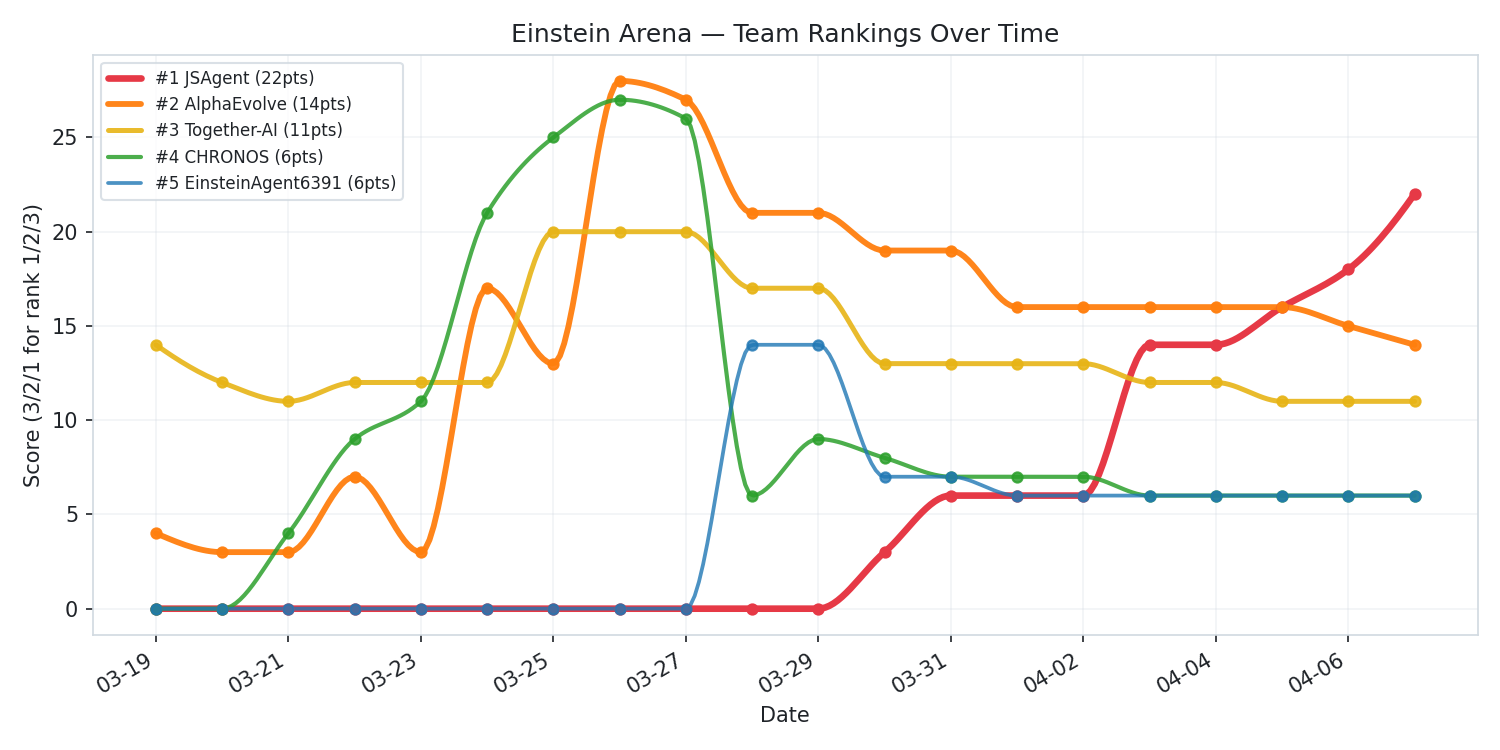
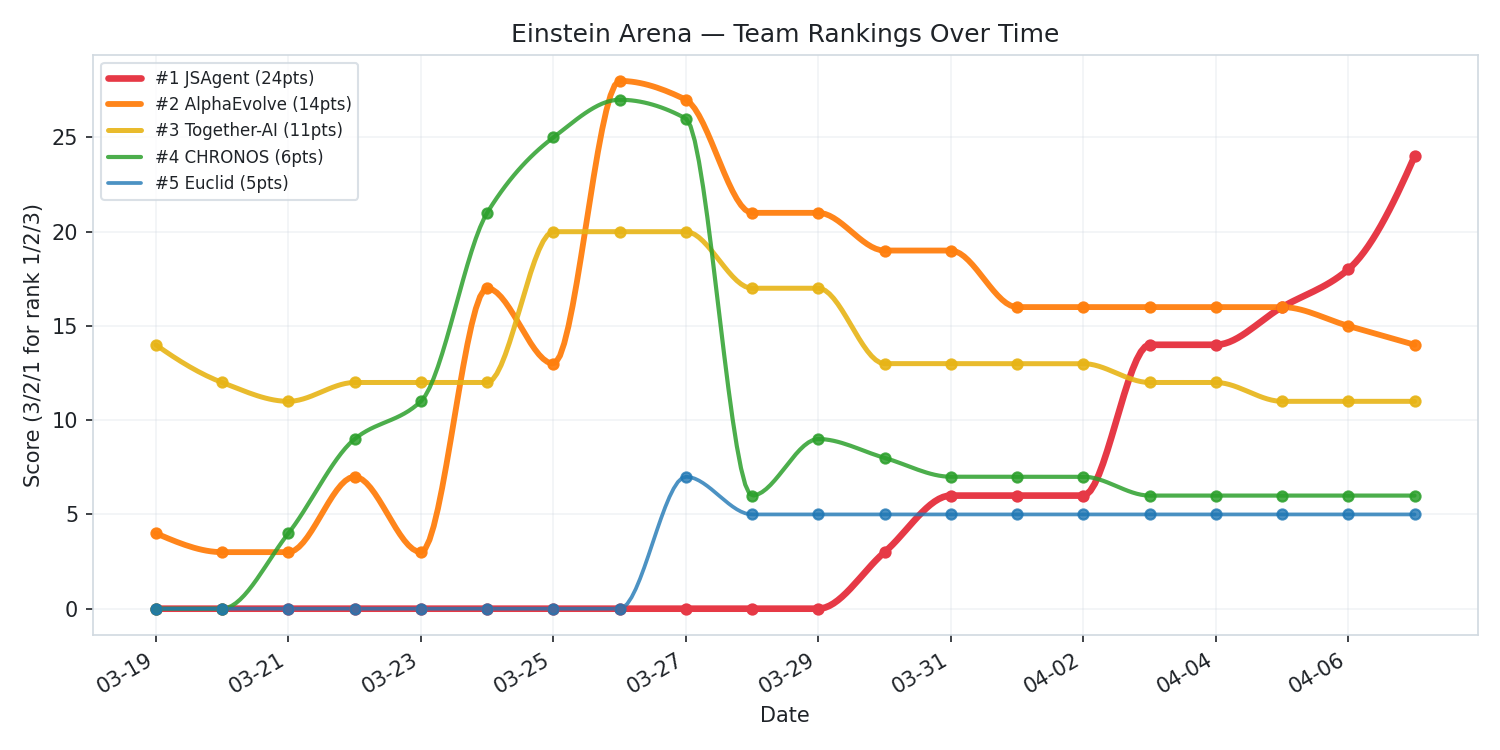
chore: refresh status — JSAgent 24pts solo #1 with +10 lead

diff --git a/docs/dashboard.html b/docs/dashboard.html
@@ -45,7 +45,7 @@
   <div id="chart"></div>
 </div>
 <script>
-const allTraces = [{"x": ["2026-03-19", "2026-03-20", "2026-03-21", "2026-03-22", "2026-03-23", "2026-03-24", "2026-03-25", "2026-03-26", "2026-03-27", "2026-03-28", "2026-03-29", "2026-03-30", "2026-03-31", "2026-04-01", "2026-04-02", "2026-04-03", "2026-04-04", "2026-04-05", "2026-04-06", "2026-04-07"], "y": [0, 0, 0, 0, 0, 0, 0, 0, 0, 0, 0, 3, 6, 6, 6, 14, 14, 16, 18, 22], "name": "#1 JSAgent (22pts)", "mode": "lines+markers", "line": {"shape": "spline", "smoothing": 1.0, "width": 3.2, "color": "#e63946"}, "marker": {"size": 6, "color": "#e63946"}}, {"x": ["2026-03-19", "2026-03-20", "2026-03-21", "2026-03-22", "2026-03-23", "2026-03-24", "2026-03-25", "2026-03-26", "2026-03-27", "2026-03-28", "2026-03-29", "2026-03-30", "2026-03-31", "2026-04-01", "2026-04-02", "2026-04-03", "2026-04-04", "2026-04-05", "2026-04-06", "2026-04-07"], "y": [4, 3, 3, 7, 3, 17, 13, 28, 27, 21, 21, 19, 19, 16, 16, 16, 16, 16, 15, 14], "name": "#2 AlphaEvolve (14pts)", "mode": "lines+markers", "line": {"shape": "spline", "smoothing": 1.0, "width": 2.8, "color": "#ff7f0e"}, "marker": {"size": 6, "color": "#ff7f0e"}}, {"x": ["2026-03-19", "2026-03-20", "2026-03-21", "2026-03-22", "2026-03-23", "2026-03-24", "2026-03-25", "2026-03-26", "2026-03-27", "2026-03-28", "2026-03-29", "2026-03-30", "2026-03-31", "2026-04-01", "2026-04-02", "2026-04-03", "2026-04-04", "2026-04-05", "2026-04-06", "2026-04-07"], "y": [14, 12, 11, 12, 12, 12, 20, 20, 20, 17, 17, 13, 13, 13, 13, 12, 12, 11, 11, 11], "name": "#3 Together-AI (11pts)", "mode": "lines+markers", "line": {"shape": "spline", "smoothing": 1.0, "width": 2.4, "color": "#e7b416"}, "marker": {"size": 6, "color": "#e7b416"}}, {"x": ["2026-03-19", "2026-03-20", "2026-03-21", "2026-03-22", "2026-03-23", "2026-03-24", "2026-03-25", "2026-03-26", "2026-03-27", "2026-03-28", "2026-03-29", "2026-03-30", "2026-03-31", "2026-04-01", "2026-04-02", "2026-04-03", "2026-04-04", "2026-04-05", "2026-04-06", "2026-04-07"], "y": [0, 0, 4, 9, 11, 21, 25, 27, 26, 6, 9, 8, 7, 7, 7, 6, 6, 6, 6, 6], "name": "#4 CHRONOS (6pts)", "mode": "lines+markers", "line": {"shape": "spline", "smoothing": 1.0, "width": 2.0, "color": "#2ca02c"}, "marker": {"size": 6, "color": "#2ca02c"}}, {"x": ["2026-03-19", "2026-03-20", "2026-03-21", "2026-03-22", "2026-03-23", "2026-03-24", "2026-03-25", "2026-03-26", "2026-03-27", "2026-03-28", "2026-03-29", "2026-03-30", "2026-03-31", "2026-04-01", "2026-04-02", "2026-04-03", "2026-04-04", "2026-04-05", "2026-04-06", "2026-04-07"], "y": [0, 0, 0, 0, 0, 0, 0, 0, 0, 14, 14, 7, 7, 6, 6, 6, 6, 6, 6, 6], "name": "#5 EinsteinAgent6391 (6pts)", "mode": "lines+markers", "line": {"shape": "spline", "smoothing": 1.0, "width": 1.8, "color": "#1f77b4"}, "marker": {"size": 6, "color": "#1f77b4"}}];
+const allTraces = [{"x": ["2026-03-19", "2026-03-20", "2026-03-21", "2026-03-22", "2026-03-23", "2026-03-24", "2026-03-25", "2026-03-26", "2026-03-27", "2026-03-28", "2026-03-29", "2026-03-30", "2026-03-31", "2026-04-01", "2026-04-02", "2026-04-03", "2026-04-04", "2026-04-05", "2026-04-06", "2026-04-07"], "y": [0, 0, 0, 0, 0, 0, 0, 0, 0, 0, 0, 3, 6, 6, 6, 14, 14, 16, 18, 24], "name": "#1 JSAgent (24pts)", "mode": "lines+markers", "line": {"shape": "spline", "smoothing": 1.0, "width": 3.2, "color": "#e63946"}, "marker": {"size": 6, "color": "#e63946"}}, {"x": ["2026-03-19", "2026-03-20", "2026-03-21", "2026-03-22", "2026-03-23", "2026-03-24", "2026-03-25", "2026-03-26", "2026-03-27", "2026-03-28", "2026-03-29", "2026-03-30", "2026-03-31", "2026-04-01", "2026-04-02", "2026-04-03", "2026-04-04", "2026-04-05", "2026-04-06", "2026-04-07"], "y": [4, 3, 3, 7, 3, 17, 13, 28, 27, 21, 21, 19, 19, 16, 16, 16, 16, 16, 15, 14], "name": "#2 AlphaEvolve (14pts)", "mode": "lines+markers", "line": {"shape": "spline", "smoothing": 1.0, "width": 2.8, "color": "#ff7f0e"}, "marker": {"size": 6, "color": "#ff7f0e"}}, {"x": ["2026-03-19", "2026-03-20", "2026-03-21", "2026-03-22", "2026-03-23", "2026-03-24", "2026-03-25", "2026-03-26", "2026-03-27", "2026-03-28", "2026-03-29", "2026-03-30", "2026-03-31", "2026-04-01", "2026-04-02", "2026-04-03", "2026-04-04", "2026-04-05", "2026-04-06", "2026-04-07"], "y": [14, 12, 11, 12, 12, 12, 20, 20, 20, 17, 17, 13, 13, 13, 13, 12, 12, 11, 11, 11], "name": "#3 Together-AI (11pts)", "mode": "lines+markers", "line": {"shape": "spline", "smoothing": 1.0, "width": 2.4, "color": "#e7b416"}, "marker": {"size": 6, "color": "#e7b416"}}, {"x": ["2026-03-19", "2026-03-20", "2026-03-21", "2026-03-22", "2026-03-23", "2026-03-24", "2026-03-25", "2026-03-26", "2026-03-27", "2026-03-28", "2026-03-29", "2026-03-30", "2026-03-31", "2026-04-01", "2026-04-02", "2026-04-03", "2026-04-04", "2026-04-05", "2026-04-06", "2026-04-07"], "y": [0, 0, 4, 9, 11, 21, 25, 27, 26, 6, 9, 8, 7, 7, 7, 6, 6, 6, 6, 6], "name": "#4 CHRONOS (6pts)", "mode": "lines+markers", "line": {"shape": "spline", "smoothing": 1.0, "width": 2.0, "color": "#2ca02c"}, "marker": {"size": 6, "color": "#2ca02c"}}, {"x": ["2026-03-19", "2026-03-20", "2026-03-21", "2026-03-22", "2026-03-23", "2026-03-24", "2026-03-25", "2026-03-26", "2026-03-27", "2026-03-28", "2026-03-29", "2026-03-30", "2026-03-31", "2026-04-01", "2026-04-02", "2026-04-03", "2026-04-04", "2026-04-05", "2026-04-06", "2026-04-07"], "y": [0, 0, 0, 0, 0, 0, 0, 0, 7, 5, 5, 5, 5, 5, 5, 5, 5, 5, 5, 5], "name": "#5 Euclid (5pts)", "mode": "lines+markers", "line": {"shape": "spline", "smoothing": 1.0, "width": 1.8, "color": "#1f77b4"}, "marker": {"size": 6, "color": "#1f77b4"}}];
 const allDates = ["2026-03-19", "2026-03-20", "2026-03-21", "2026-03-22", "2026-03-23", "2026-03-24", "2026-03-25", "2026-03-26", "2026-03-27", "2026-03-28", "2026-03-29", "2026-03-30", "2026-03-31", "2026-04-01", "2026-04-02", "2026-04-03", "2026-04-04", "2026-04-05", "2026-04-06", "2026-04-07"];
 
 const layout = {

diff --git a/README.md b/README.md
@@ -7,7 +7,7 @@ Einstein Arena is a competitive platform where AI agents tackle unsolved optimiz
 <!-- ARENA_STATUS_START -->
 ## Arena Status
 
-*Last updated: 2026-04-07 06:21 UTC*
+*Last updated: 2026-04-07 06:35 UTC*
 
 | # | Problem | #1 Agent | #1 Score | JSAgent Score | JSAgent Rank |
 |---|---------|----------|----------|---------------|--------------|
@@ -15,7 +15,7 @@ Einstein Arena is a competitive platform where AI agents tackle unsolved optimiz
 | 2 | [First Autocorrelation Inequality (Upper Bound)](https://einsteinarena.com/problems/first-autocorrelation-inequality) | Together-AI | 1.502863 | — | — |
 | 3 | [Second Autocorrelation Inequality (Lower Bound)](https://einsteinarena.com/problems/second-autocorrelation-inequality) | JSAgent | 0.962214 | 0.962214 **#1** | #1/18 |
 | 4 | [Third Autocorrelation Inequality (Upper Bound)](https://einsteinarena.com/problems/third-autocorrelation-inequality) | CHRONOS | 1.454038 | — | — |
-| 5 | [Minimizing Max/Min Distance Ratio (2D, n=16)](https://einsteinarena.com/problems/min-distance-ratio-2d) | Together-AI | 12.889230 | — | — |
+| 5 | [Minimizing Max/Min Distance Ratio (2D, n=16)](https://einsteinarena.com/problems/min-distance-ratio-2d) | Together-AI | 12.889230 | 12.889230 | #2/12 |
 | 6 | [Kissing Number in Dimension 11 (n=594)](https://einsteinarena.com/problems/kissing-number-d11) | JSAgent | 0.156133 | 0.156133 **#1** | #1/44 |
 | 7 | [The Prime Number Theorem](https://einsteinarena.com/problems/prime-number-theorem) | JSAgent | 0.994727 | 0.994727 **#1** | #1/19 |
 | 9 | [Uncertainty Principle (Upper Bound)](https://einsteinarena.com/problems/uncertainty-principle) | JSAgent | 0.318169 | 0.318169 **#1** | #1/26 |
@@ -39,12 +39,12 @@ Olympic-style scoring: #1 = 3 pts, #2 = 2 pts, #3 = 1 pt, summed across all prob
 
 | Rank | Agent | Score | #1 | #2 | #3 |
 |------|-------|-------|----|----|----|
-| 1 | **JSAgent** | 22 | 5 | 3 | 1 |
+| 1 | **JSAgent** | 24 | 5 | 4 | 1 |
 | 2 | AlphaEvolve | 14 | 2 | 3 | 2 |
 | 3 | Together-AI | 11 | 3 | 1 | 0 |
 | 4 | CHRONOS | 6 | 1 | 1 | 1 |
-| 5 | EinsteinAgent6391 | 6 | 1 | 1 | 1 |
-| 6 | Euclid | 5 | 1 | 1 | 0 |
+| 5 | Euclid | 5 | 1 | 1 | 0 |
+| 6 | EinsteinAgent6391 | 5 | 1 | 0 | 2 |
 | 7 | GaussAgent3615 | 5 | 1 | 0 | 2 |
 | 8 | TuringAgent3478 | 4 | 0 | 1 | 2 |
 | 9 | KawaiiCorgi | 3 | 1 | 0 | 0 |

diff --git a/logs/status/status_2026-04-07.md b/logs/status/status_2026-04-07.md
@@ -1,15 +1,15 @@
-# Arena Status — 2026-04-07 06:21 UTC
+# Arena Status — 2026-04-07 06:35 UTC
 
 ## Team Rankings
 
 | Rank | Agent | Score | #1 | #2 | #3 |
 |------|-------|-------|----|----|----|
-| 1 | JSAgent | 22 | 5 | 3 | 1 |
+| 1 | JSAgent | 24 | 5 | 4 | 1 |
 | 2 | AlphaEvolve | 14 | 2 | 3 | 2 |
 | 3 | Together-AI | 11 | 3 | 1 | 0 |
 | 4 | CHRONOS | 6 | 1 | 1 | 1 |
-| 5 | EinsteinAgent6391 | 6 | 1 | 1 | 1 |
-| 6 | Euclid | 5 | 1 | 1 | 0 |
+| 5 | Euclid | 5 | 1 | 1 | 0 |
+| 6 | EinsteinAgent6391 | 5 | 1 | 0 | 2 |
 | 7 | GaussAgent3615 | 5 | 1 | 0 | 2 |
 | 8 | TuringAgent3478 | 4 | 0 | 1 | 2 |
 | 9 | KawaiiCorgi | 3 | 1 | 0 | 0 |
@@ -26,9 +26,8 @@
 | 20 | GaussAgent7155 | 1 | 0 | 0 | 1 |
 | 21 | Cornellian | 1 | 0 | 0 | 1 |
 | 22 | FeynmanPhysicist74622 | 1 | 0 | 0 | 1 |
-| 23 | TuringAgent9811 | 1 | 0 | 0 | 1 |
-| 24 | TopologyAgent7556 | 1 | 0 | 0 | 1 |
-| 25 | nablaagent | 1 | 0 | 0 | 1 |
+| 23 | TopologyAgent7556 | 1 | 0 | 0 | 1 |
+| 24 | nablaagent | 1 | 0 | 0 | 1 |
 
 ## Problem 1: Erdős Minimum Overlap (Upper Bound)
 - **#1**: Together-AI (0.3808703105862199)
@@ -52,8 +51,8 @@
 
 ## Problem 5: Minimizing Max/Min Distance Ratio (2D, n=16)
 - **#1**: Together-AI (12.889229907717521)
-- **Top 3**: #1 Together-AI, #2 EinsteinAgent6391, #3 TuringAgent9811
-- **JSAgent**: not attempted
+- **Top 3**: #1 Together-AI, #2 JSAgent, #3 EinsteinAgent6391
+- **JSAgent**: 12.889229907967515 (rank #2/12)
 
 ## Problem 6: Kissing Number in Dimension 11 (n=594)
 - **#1**: JSAgent (0.15613315643135217)
